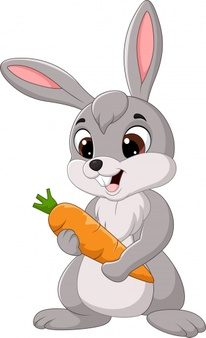
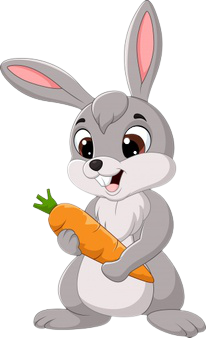
Removed white background from Portuguese game animals images

diff --git a/src/games/Português/AcertarAnimal-Imagem/index.js b/src/games/Português/AcertarAnimal-Imagem/index.js
@@ -6,19 +6,19 @@ import Background from '../../../components/Background';
 
 import { styles } from './styles';
 
-import Cachorro from './Imagens/cachorro.jpg';
+import Cachorro from './Imagens/cachorro.png';
 import Coelho from './Imagens/coelho.png';
-import Crocodilo from './Imagens/crocodilo.jpg';
+import Crocodilo from './Imagens/crocodilo.png';
 import Gato from './Imagens/gato.png';
-import Girafa from './Imagens/girafa.jpg';
-import Hipopótamo from './Imagens/hipopotamo.jpg';
-import Leão from './Imagens/leão.jpg';
-import Papagaio from './Imagens/papagaio.jpg';
+import Girafa from './Imagens/girafa.png';
+import Hipopótamo from './Imagens/hipopotamo.png';
+import Leão from './Imagens/leão.png';
+import Papagaio from './Imagens/papagaio.png';
 import Pinguim from './Imagens/pinguim.png';
-import Porco from './Imagens/porco.jpg';
+import Porco from './Imagens/porco.png';
 import Rato from './Imagens/rato.png';
 import Sapo from './Imagens/sapo.png';
-import Urso from './Imagens/urso.jpg';
+import Urso from './Imagens/urso.png';
 import Vaca from './Imagens/vaca.png';
 
 export default function jogoPortuguês(){
@@ -211,7 +211,6 @@ export default function jogoPortuguês(){
 							duration={2000}
 						>
 							{ListaAlternativas[3]}
-							{console.log(ListaAlternativas[3])}
 
 						</Animatable.Text>
 
